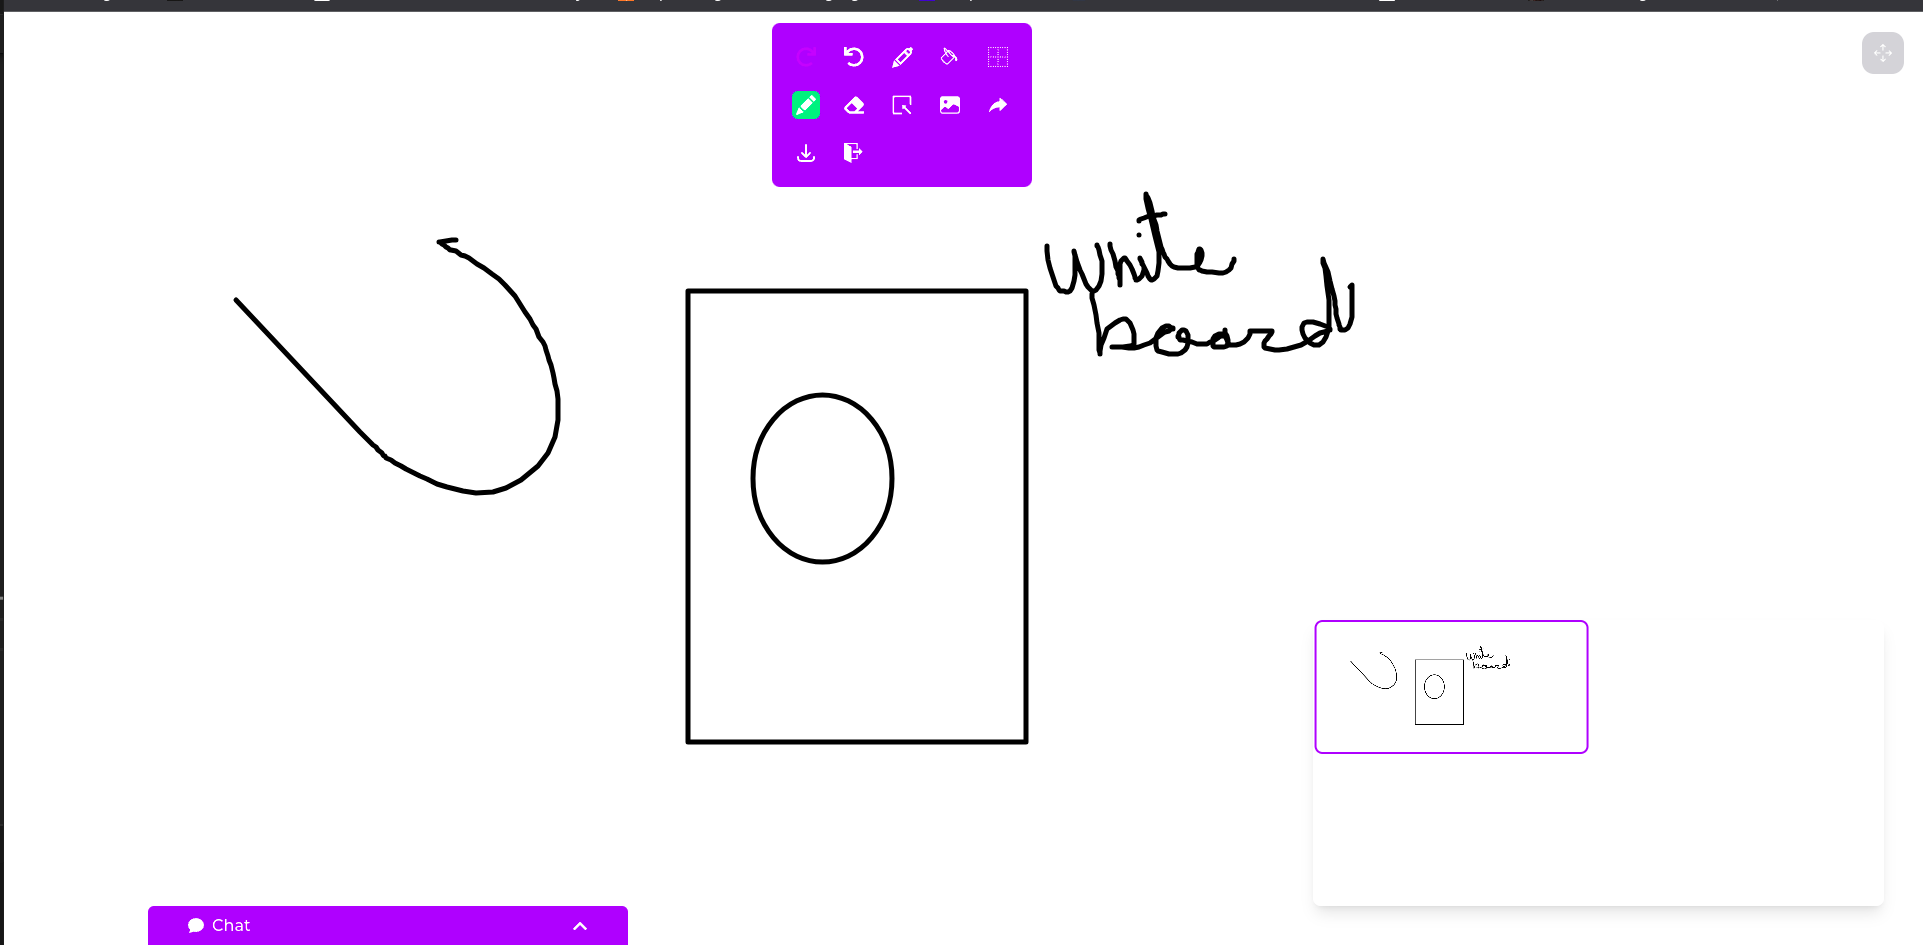
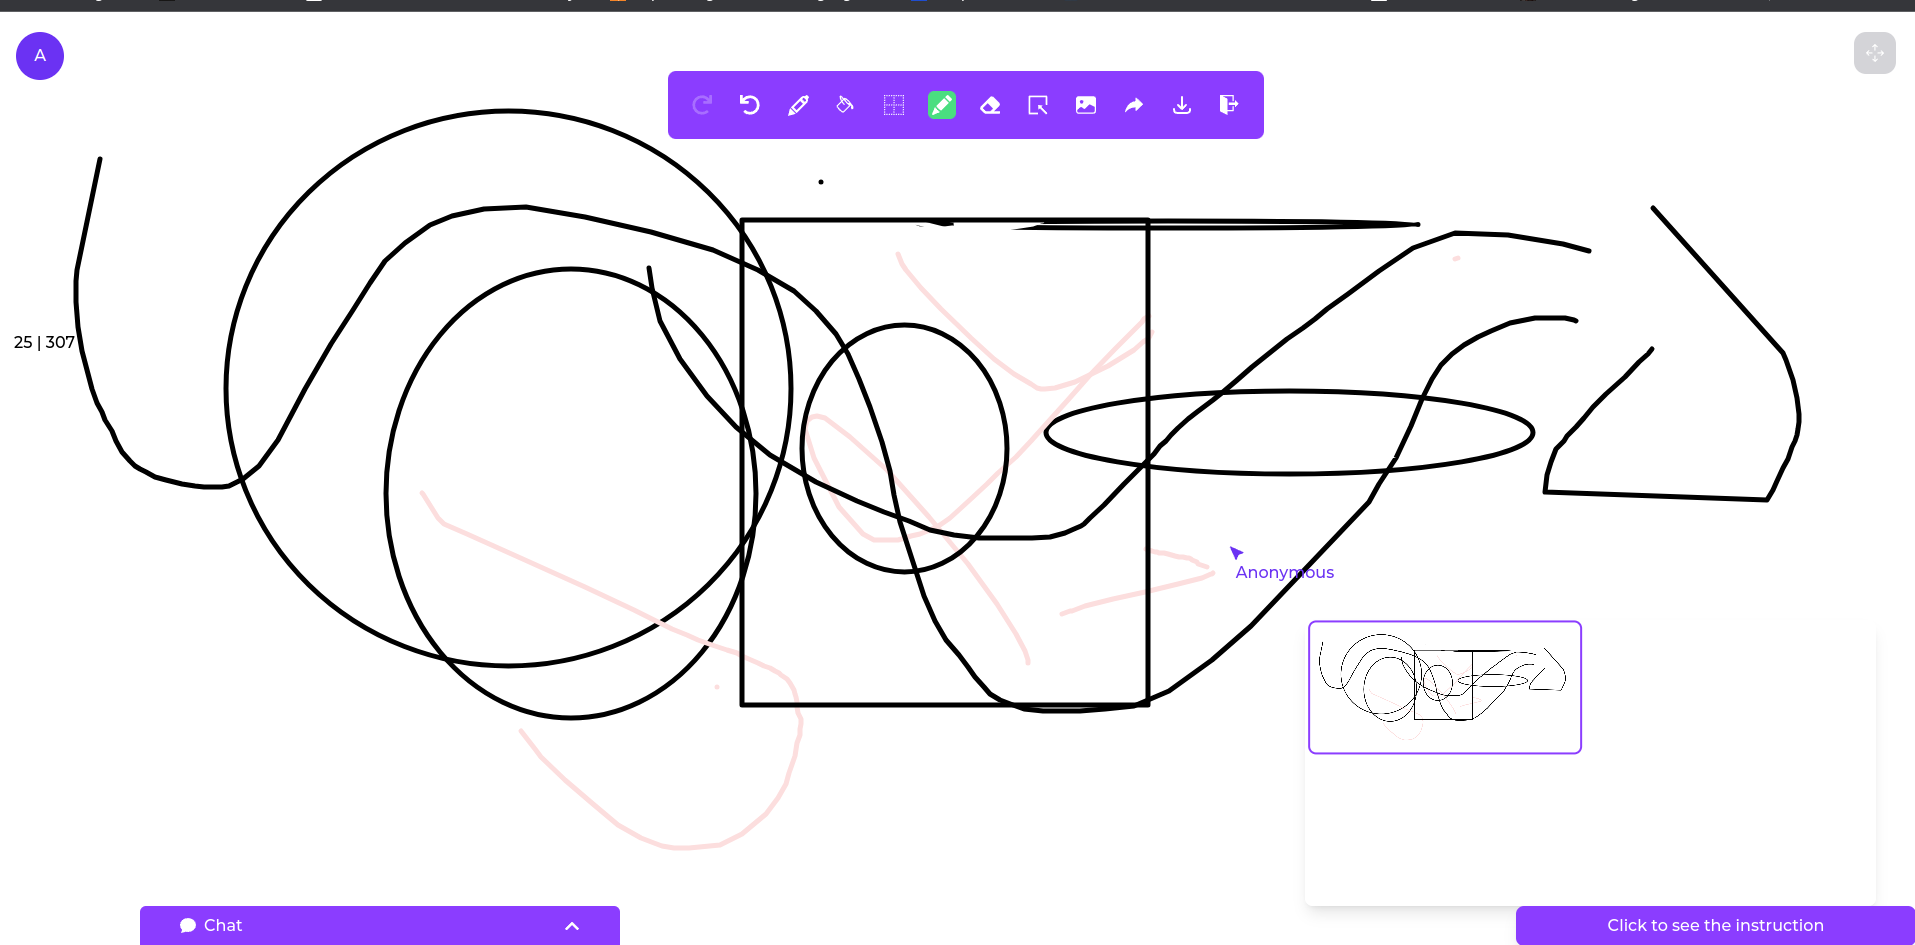
change some styles

diff --git a/modules/room/components/toolbar/ToolBar.tsx b/modules/room/components/toolbar/ToolBar.tsx
@@ -69,7 +69,8 @@ const ToolBar = () => {
         <FiChevronRight />
       </motion.button>
       <motion.div
-        className="absolute left-10 top-[50%] z-50 grid grid-cols-2 items-center gap-5 rounded-lg bg-[#8b3dff] p-5 text-white 2xl:left-[40%] 2xl:top-[10%]	2xl:grid-cols-5"
+        className="absolute left-10 top-[50%] z-50 grid grid-cols-2 items-center gap-5 rounded-lg bg-[#8b3dff] p-5 text-white 
+        xl:left-[35%] xl:top-[10%] 	xl:grid-cols-12"
         animate={{
           x: opened ? 0 : -160,
           y: "-50%",

diff --git a/modules/room/components/chat/Chat.tsx b/modules/room/components/chat/Chat.tsx
@@ -47,7 +47,7 @@ const Chat = () => {
 
   return (
     <motion.div
-      className="absolute bottom-0 z-50 flex h-[300px] w-full flex-col overflow-hidden rounded-t-md sm:left-36 sm:w-[30rem]"
+      className="absolute bottom-0 z-50 flex h-[300px] w-[200px] flex-col overflow-hidden rounded-t-md sm:left-36 sm:w-[30rem]"
       animate={{ y: opened ? 0 : 260 }}
       transition={{ ease: DEFAULT_EASE, duration: 0.2 }}
     >

diff --git a/modules/room/components/board/Canvas.tsx b/modules/room/components/board/Canvas.tsx
@@ -123,7 +123,7 @@ const Canvas = () => {
       <MiniMap dragging={dragging} />
       <button
         onClick={onClickInstruction}
-        className="btn absolute left-10 top-10 z-30 overflow-hidden rounded-lg shadow-lg"
+        className="btn absolute bottom-0 right-0 z-30  overflow-hidden rounded-lg shadow-lg xl:w-[400px]"
       >
         Click to see the instruction
       </button>
